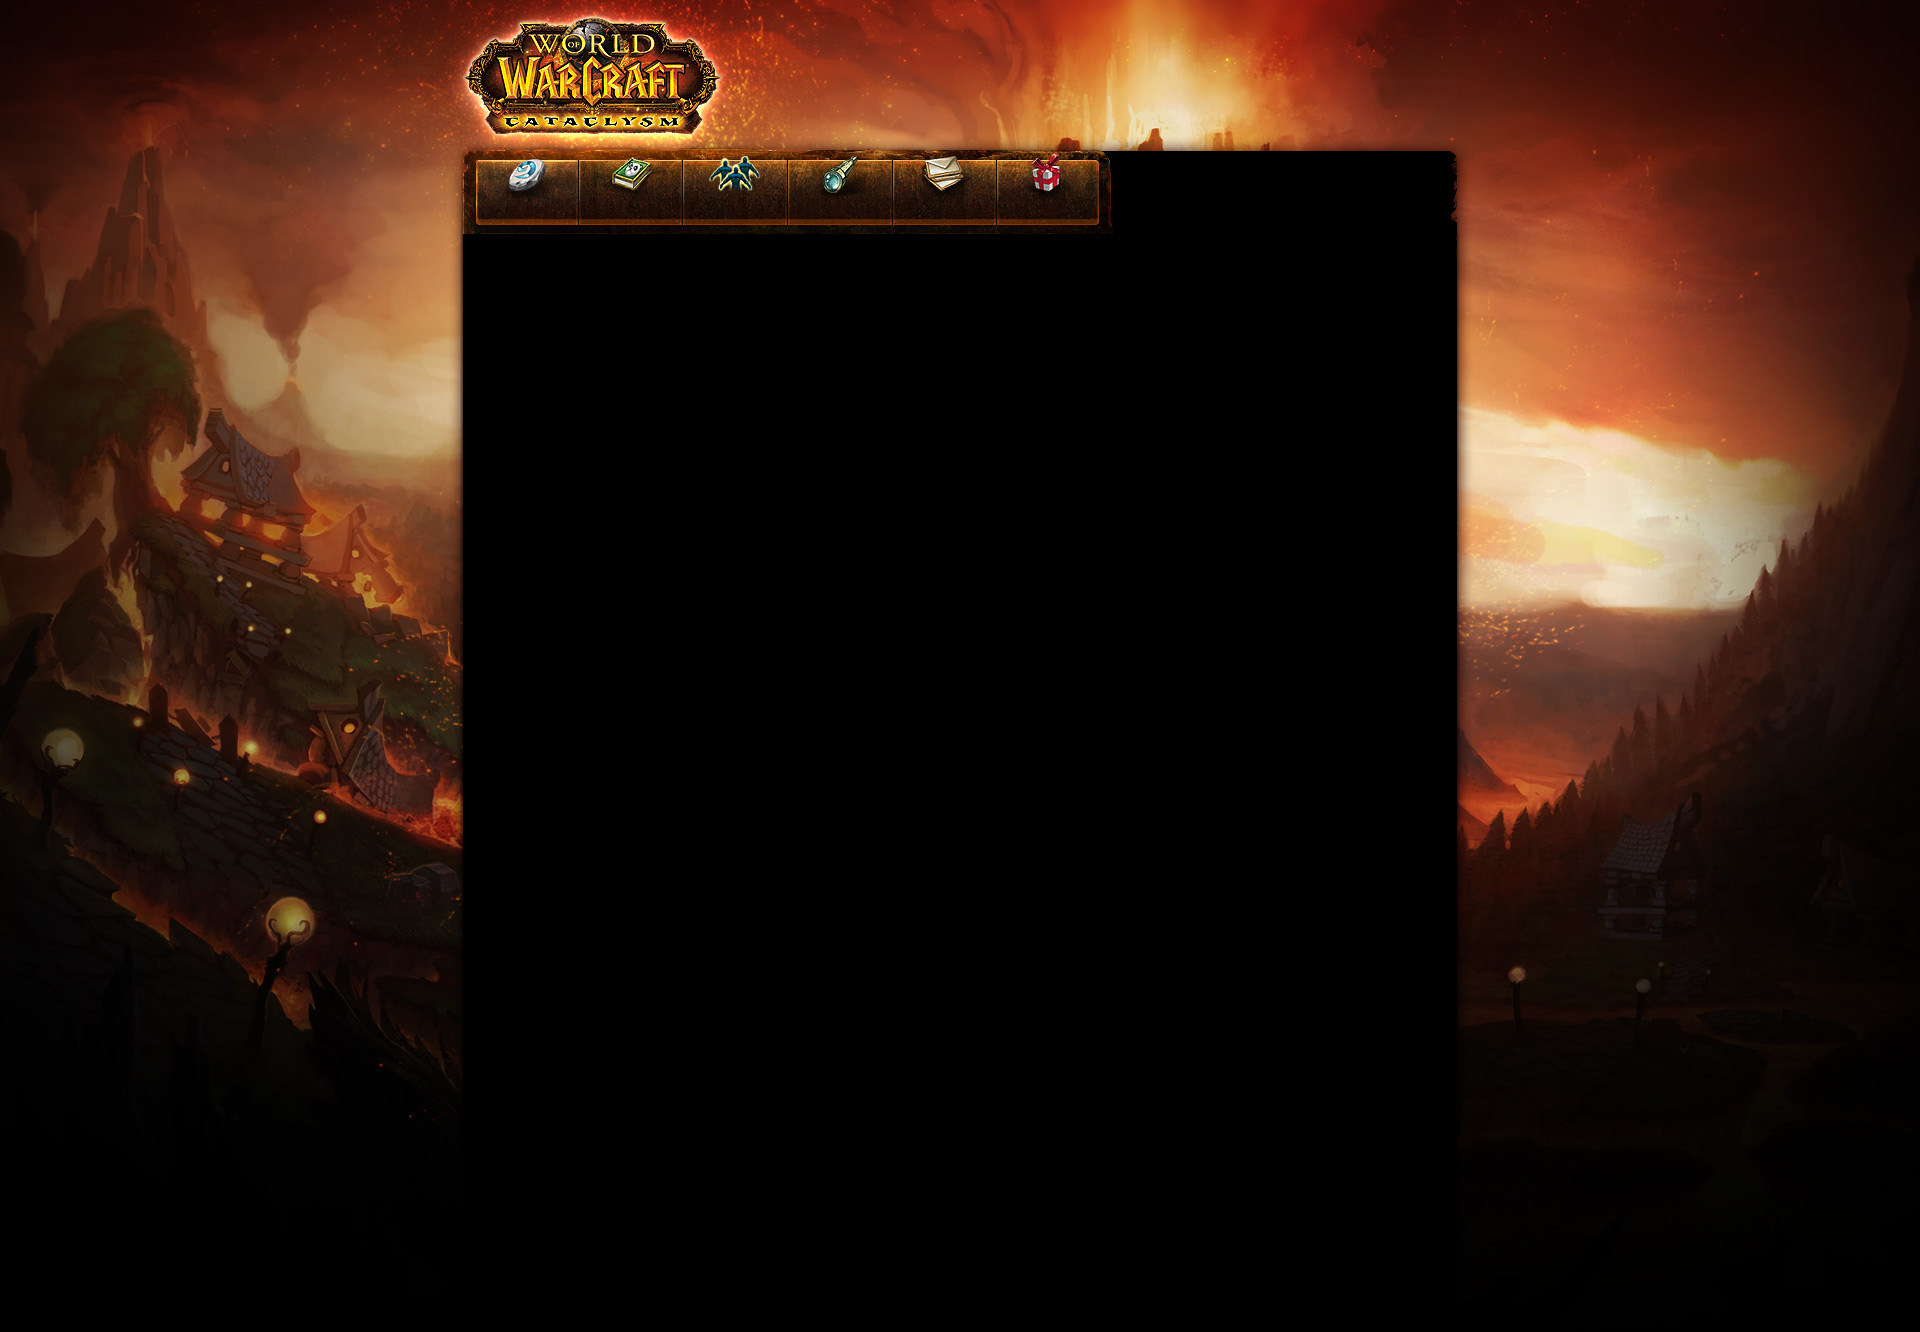
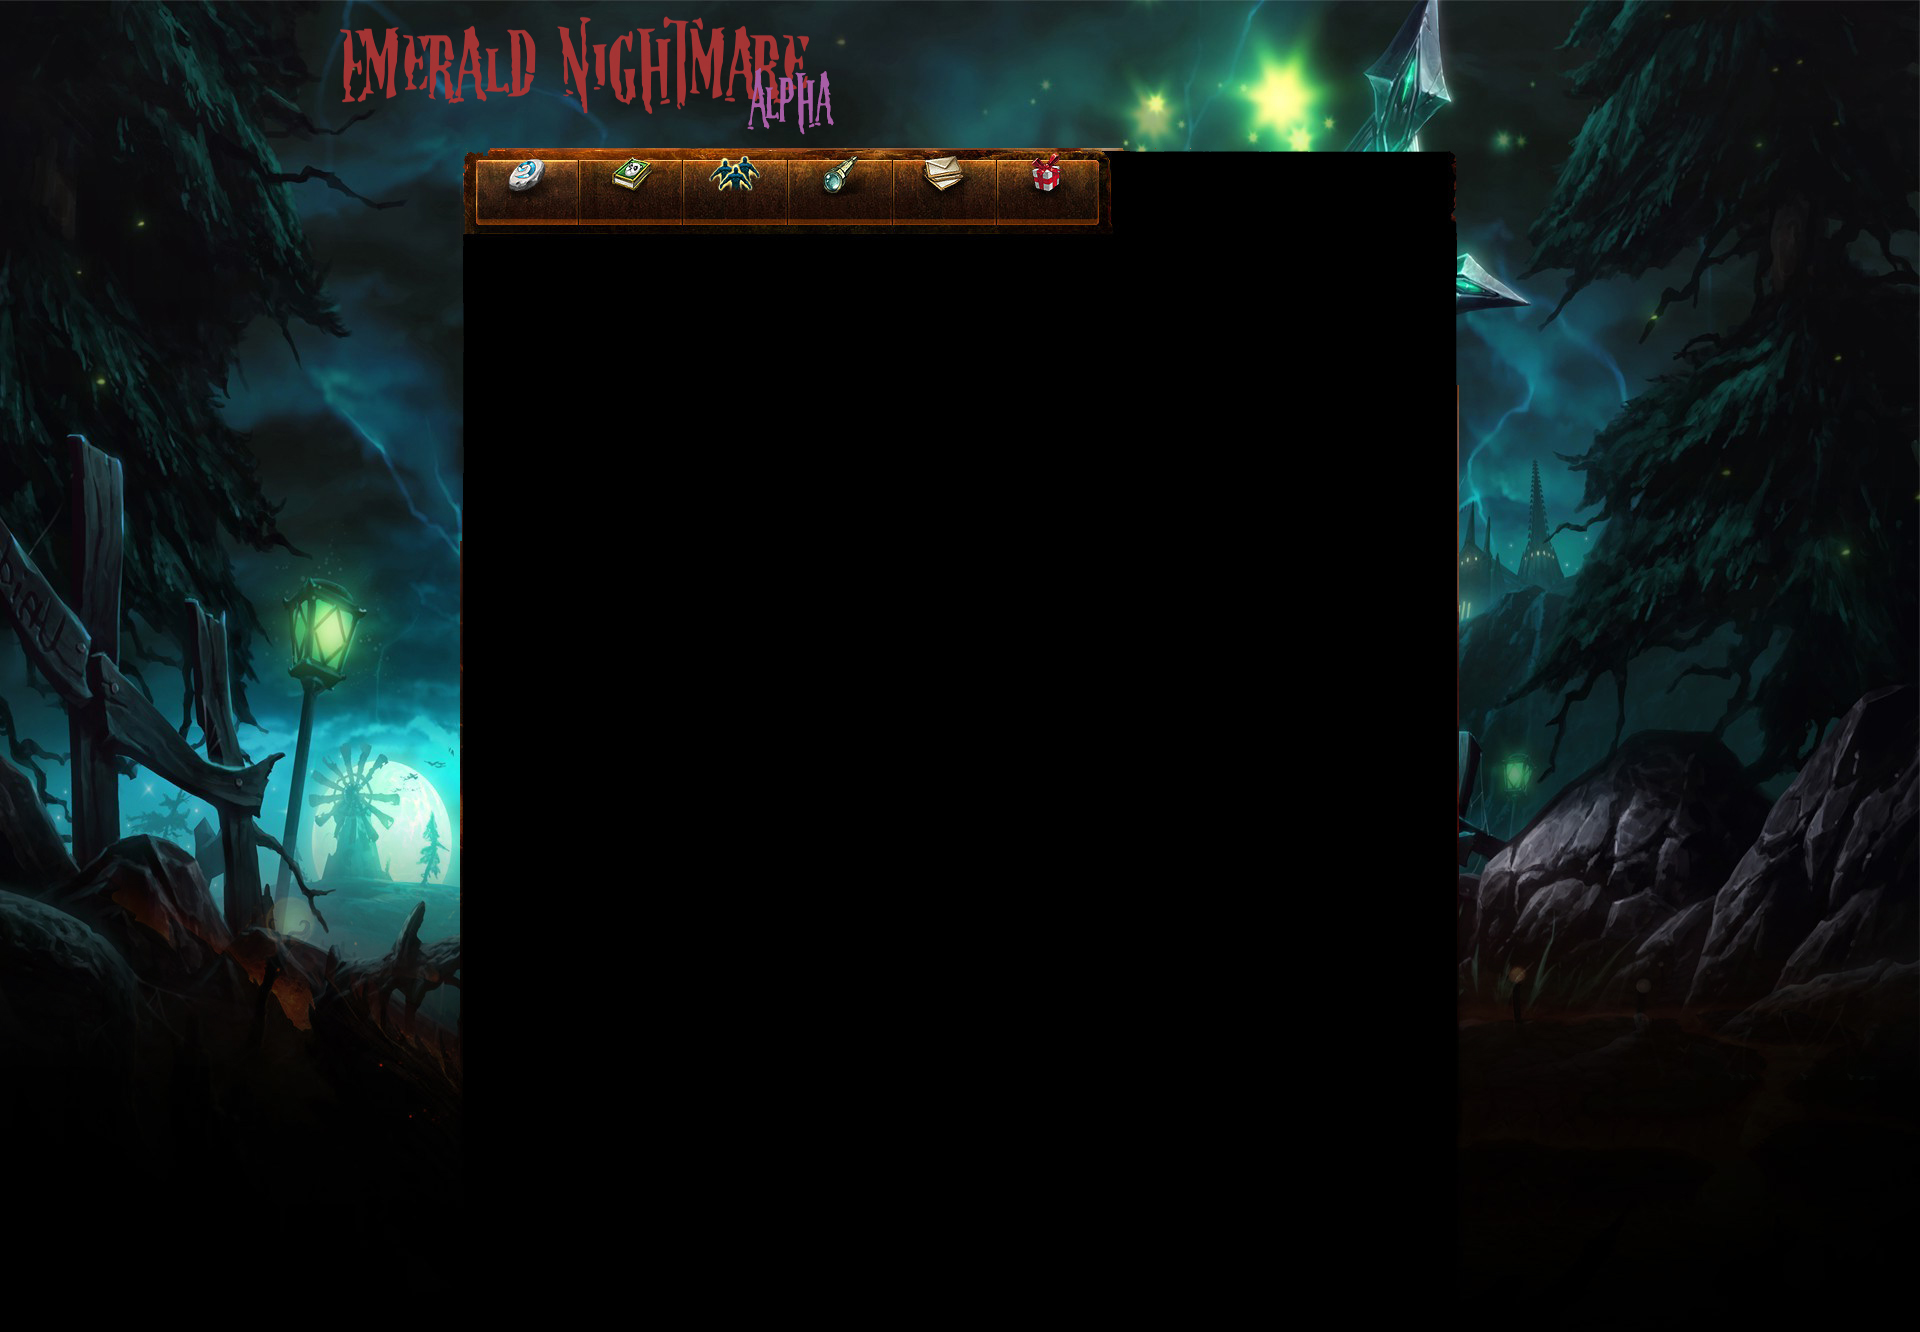
Adding background.

diff --git a/wow/static/Themes/DefaultAFCMS/css/wow.css b/wow/static/Themes/DefaultAFCMS/css/wow.css
@@ -1,27 +1,6 @@
 parsererror { position:absolute; }
 html { min-width: 1006px; }
-body { background: #000 url("../images/layout/bg/body-bg-baked5e1f.jpg?v=2") 50% 0 no-repeat; -webkit-background-size: auto; color: #efc9a0; font: normal 12px/1.5 Arial, Verdana, sans-serif; }
-
-@media (max-width: 1920px) {
-	body { background-image: url("../images/layout/bg/body-bg-baked-1920px5e1f.jpg?v=2") }
-}
-
-@media (max-width: 1680px) {
-	body { background-image: url("../images/layout/bg/body-bg-baked-1680px5e1f.jpg?v=2") }
-}
-
-@media (max-width: 1440px) {
-	body { background-image: url("../images/layout/bg/body-bg-baked-1440px5e1f.jpg?v=2") }
-}
-
-@media (max-width: 1280px) {
-	body { background-image: url("../images/layout/bg/body-bg-baked-1280px5e1f.jpg?v=2") }
-}
-
-@media (max-width: 1024px) {
-  body { background-image: url("../images/layout/bg/body-bg-baked-1024px5e1f.jpg?v=2") }
-}
-
+body { background: #000 url("../images/layout/bg/body-bg-baked-1920px.jpg") 50% 0 no-repeat; -webkit-background-size: auto; color: #efc9a0; font: normal 12px/1.5 Arial, Verdana, sans-serif; }
 
 a { color: #ffb100 }
 a:hover { color: #FFF !important }

diff --git a/admin/wow/static/css/wow.css b/admin/wow/static/css/wow.css
@@ -1,26 +1,5 @@
 html { min-width: 1006px; }
-body { background: #000 url("../images/layout/bg/body-bg-baked.jpg?v=2") 50% 0 no-repeat; -webkit-background-size: auto; color: #efc9a0; font: normal 12px/1.5 Arial, Verdana, sans-serif; }
-
-@media (max-width: 1920px) {
-	body { background-image: url("../images/layout/bg/body-bg-baked-1920px.jpg?v=2") }
-}
-
-@media (max-width: 1680px) {
-	body { background-image: url("../images/layout/bg/body-bg-baked-1680px.jpg?v=2") }
-}
-
-@media (max-width: 1440px) {
-	body { background-image: url("../images/layout/bg/body-bg-baked-1440px.jpg?v=2") }
-}
-
-@media (max-width: 1280px) {
-	body { background-image: url("../images/layout/bg/body-bg-baked-1280px.jpg?v=2") }
-}
-
-@media (max-width: 1024px) {
-  body { background-image: url("../images/layout/bg/body-bg-baked-1024px.jpg?v=2") }
-}
-
+body { background: #000 url("../images/layout/bg/body-bg-baked-1920px.jpg") 50% 0 no-repeat; -webkit-background-size: auto; color: #efc9a0; font: normal 12px/1.5 Arial, Verdana, sans-serif; }
 
 a { color: #ffb100 }
 a:hover { color: #FFF !important }

diff --git a/wow/static/css/wow.css b/wow/static/css/wow.css
@@ -1,26 +1,5 @@
 html { min-width: 1006px; }
-body { background: #000 url("../images/layout/bg/body-bg-baked.jpg?v=2") 50% 0 no-repeat; -webkit-background-size: auto; color: #efc9a0; font: normal 12px/1.5 Arial, Verdana, sans-serif; }
-
-@media (max-width: 1920px) {
-	body { background-image: url("../images/layout/bg/body-bg-baked-1920px.jpg?v=2") }
-}
-
-@media (max-width: 1680px) {
-	body { background-image: url("../images/layout/bg/body-bg-baked-1680px.jpg?v=2") }
-}
-
-@media (max-width: 1440px) {
-	body { background-image: url("../images/layout/bg/body-bg-baked-1440px.jpg?v=2") }
-}
-
-@media (max-width: 1280px) {
-	body { background-image: url("../images/layout/bg/body-bg-baked-1280px.jpg?v=2") }
-}
-
-@media (max-width: 1024px) {
-  body { background-image: url("../images/layout/bg/body-bg-baked-1024px.jpg?v=2") }
-}
-
+body { background: #000 url("../images/layout/bg/body-bg-baked-1920px.jpg") 50% 0 no-repeat; -webkit-background-size: auto; color: #efc9a0; font: normal 12px/1.5 Arial, Verdana, sans-serif; }
 
 a { color: #ffb100 }
 a:hover { color: #FFF !important }

diff --git a/admin/wow/static/css/armory/wow.css b/admin/wow/static/css/armory/wow.css
@@ -1,5 +1,5 @@
 html { min-width: 1006px; }
-body { background: #000 url("../../images/layout/body-bg-baked-2.jpg") 50% 0 no-repeat; -webkit-background-size: 2400px 1332px; color: #efc9a0; font: normal 12px/1.5 Arial, Verdana, sans-serif; }
+body { background: #000 url("../../images/layout/bg/body-bg-baked-1920px.jpg") 50% 0 no-repeat; -webkit-background-size: 2400px 1332px; color: #efc9a0; font: normal 12px/1.5 Arial, Verdana, sans-serif; }
 
 a { color: #ffb100 }
 a:hover { color: #FFF }

diff --git a/wow/static/Themes/DefaultAFCMS/css/armory/wow.css b/wow/static/Themes/DefaultAFCMS/css/armory/wow.css
@@ -1,5 +1,5 @@
 html { min-width: 1006px; }
-body { background: #000 url("../../images/layout/body-bg-baked-2.jpg") 50% 0 no-repeat; -webkit-background-size: 2400px 1332px; color: #efc9a0; font: normal 12px/1.5 Arial, Verdana, sans-serif; }
+body { background: #000 url("../../images/layout/bg/body-bg-baked-1920px.jpg") 50% 0 no-repeat; -webkit-background-size: 2400px 1332px; color: #efc9a0; font: normal 12px/1.5 Arial, Verdana, sans-serif; }
 
 a { color: #ffb100 }
 a:hover { color: #FFF }

diff --git a/wow/static/css/armory/wow.css b/wow/static/css/armory/wow.css
@@ -1,5 +1,5 @@
 html { min-width: 1006px; }
-body { background: #000 url("../../images/layout/body-bg-baked-2.jpg") 50% 0 no-repeat; -webkit-background-size: 2400px 1332px; color: #efc9a0; font: normal 12px/1.5 Arial, Verdana, sans-serif; }
+body { background: #000 url("../../images/layout/bg/body-bg-baked-1920px.jpg") 50% 0 no-repeat; -webkit-background-size: 2400px 1332px; color: #efc9a0; font: normal 12px/1.5 Arial, Verdana, sans-serif; }
 
 a { color: #ffb100 }
 a:hover { color: #FFF }

diff --git a/wow/static/local-common/css/common.css b/wow/static/local-common/css/common.css
@@ -67,7 +67,7 @@ a.ui-button.imgbutton span span span { padding: 0 5px; }
 
 /* breadcrumbs */
 .ui-breadcrumb { list-style: none; margin: 0; padding: 0; float: left; }
-.ui-breadcrumb li { float: left; margin-right: 5px; padding-right: 25px; }
+.ui-breadcrumb li { float: left; margin-right: 5px; }
 .ui-breadcrumb li a { border-bottom:1px dotted; }
 .ui-breadcrumb li.last { background: none;}
 .ui-breadcrumb li.childless a,

diff --git a/footer.php b/footer.php
@@ -24,7 +24,7 @@ require_once('functions.d/GetClientLink.php');
 				<ul>
 					<li><a href="#"><?php echo $website['title']; ?>
 					</a></li>
-					<li><a href="#"><?php echo $Client_down['Client_down']; ?>
+					<li><a href="account/game_client"><?php echo $Client_down['Client_down']; ?>
 					</a></li>
 				</ul>
 			</div>
@@ -34,13 +34,9 @@ require_once('functions.d/GetClientLink.php');
 				</a>
 				</h3>
 				<ul>
-					<li><a href="#"><?php echo $Account1['Account1']; ?>
-					</a></li>
 					<li><a href="<?php echo $website['root'];?>register.php"><?php echo $Account3['Account3']; ?>
 					</a></li>
 					<li><a href="<?php echo $website['root'];?>account_log.php"><?php echo $Account4['Account4']; ?>
-					</a></li>
-					<li><a href="<?php echo $website['root'];?>account_log.php"><?php echo $Account5['Account5']; ?>
 					</a></li>
 				</ul>
 			</div>

diff --git a/forum/index.php b/forum/index.php
@@ -210,7 +210,8 @@ Flash.ratingImage = 'http://eu.media.blizzard.com/wow/player/rating-pegi.jpg';
 			</div>
 		</div>
 	</div>
-	</div>
+	<?php include("../footer.php"); ?>
+</div>
 <script type="text/javascript" src="../wow/static/local-common/js/search.js?v46"></script>
 <script type="text/javascript">
 //<![CDATA[
@@ -319,6 +320,5 @@ other: 'Other'
 };
 //]]>
 </script>
-<?php include("../footer.php"); ?>
 </body>
 </html>
